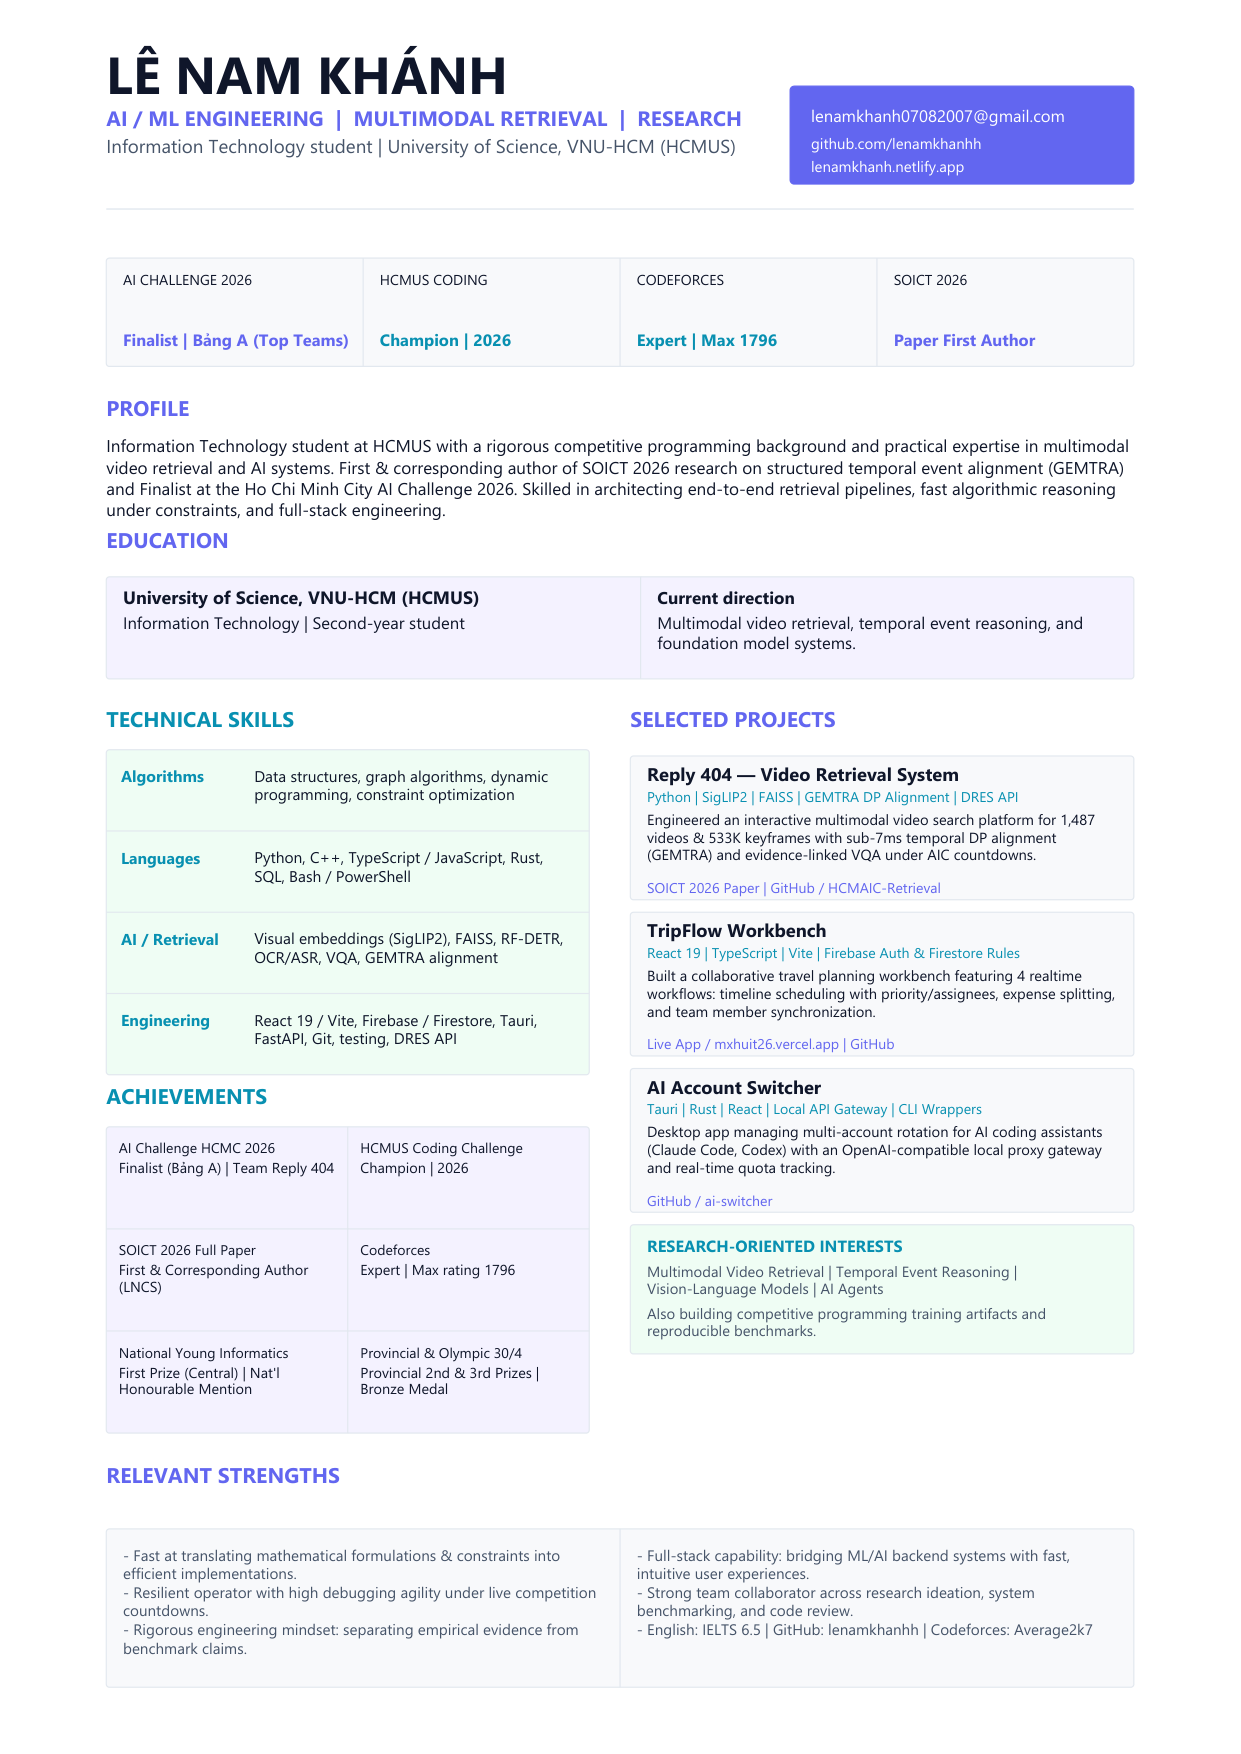
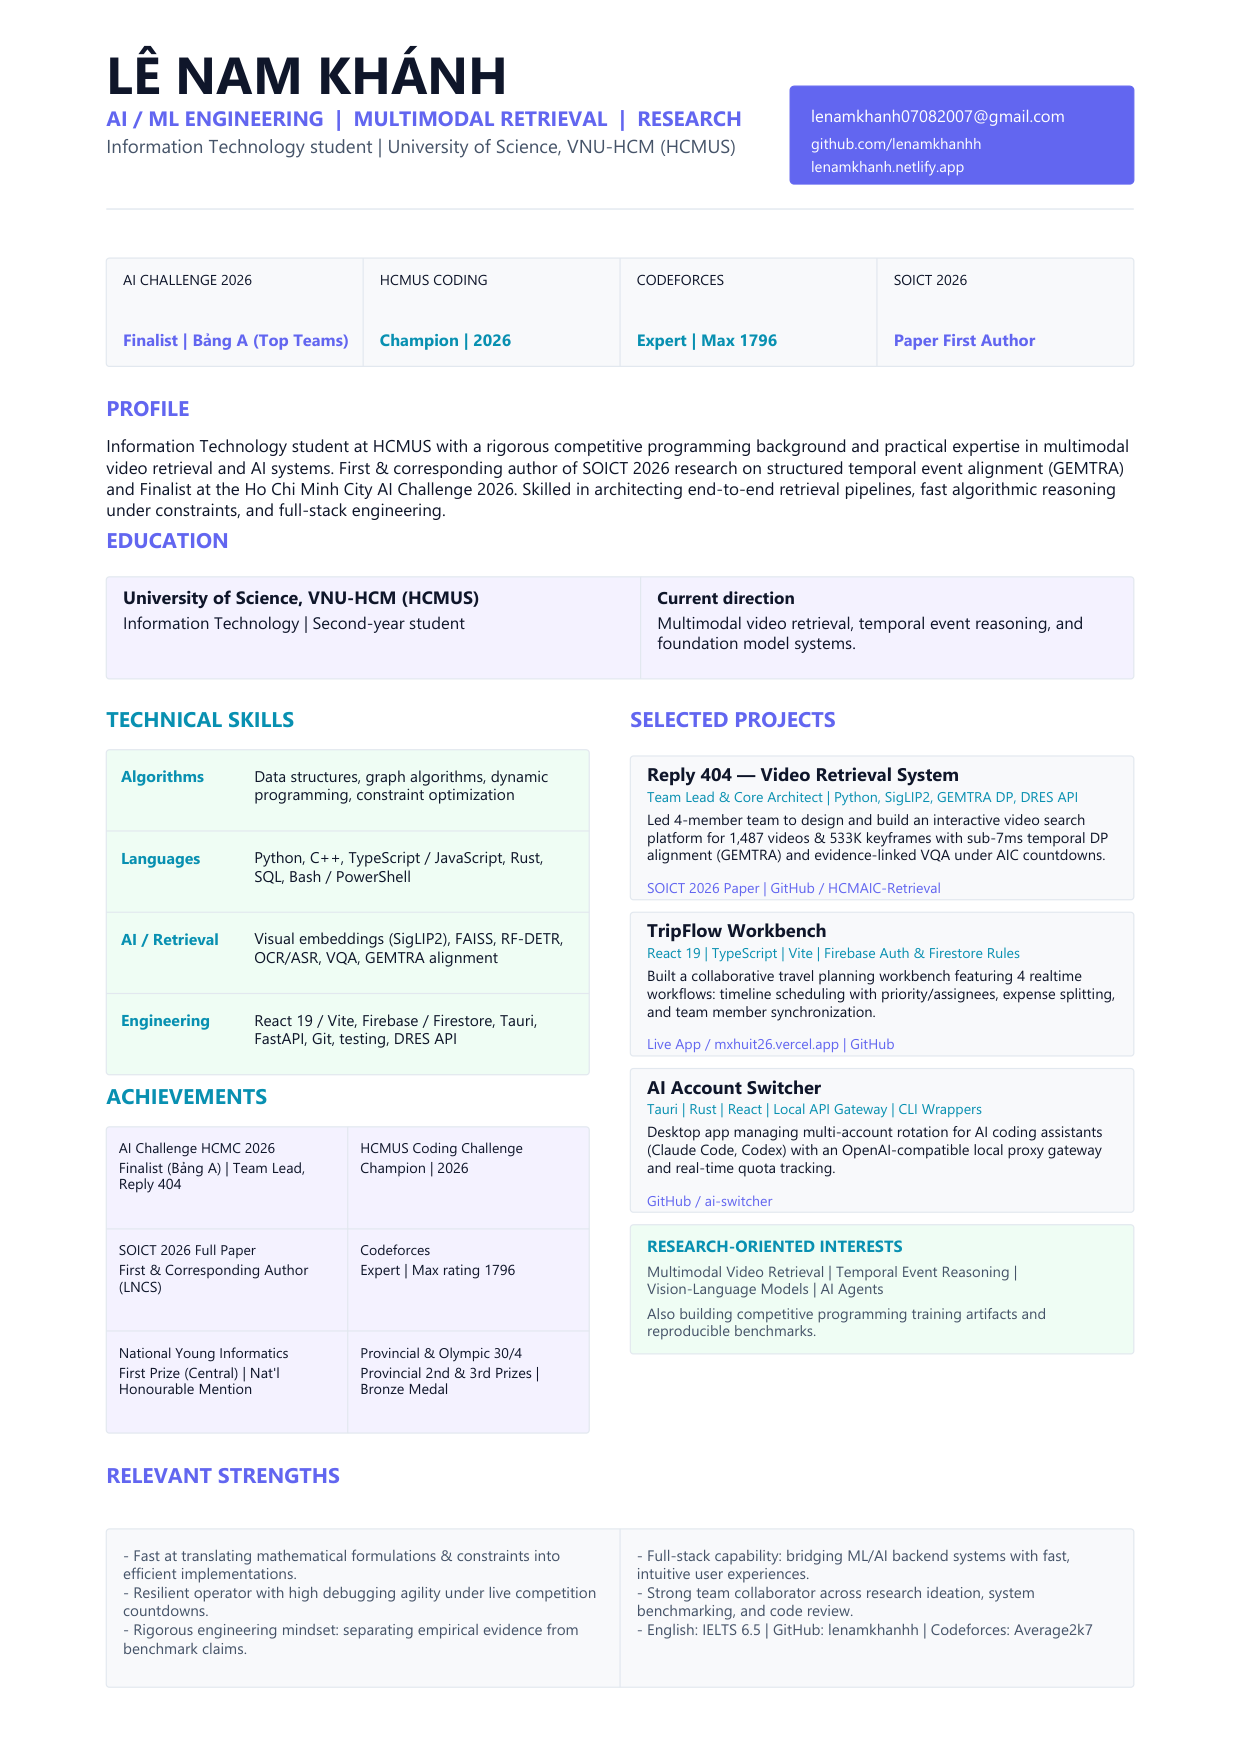
feat: highlight Team Lead and core architect contribution for HCMAIC Reply 404

Changed region(s): [[0.5205, 0.431, 0.888, 0.4926], [0.2143, 0.6465, 0.245, 0.6773]]

diff --git a/src/content.ts b/src/content.ts
@@ -72,7 +72,7 @@ export const headlineEvidence: EvidenceItem[] = [
   {
     label: "AI Challenge 2026",
     value: "Finalist · Bảng A",
-    context: "Reply 404 · SOICT Paper First Author",
+    context: "Team Lead, Reply 404 · SOICT First Author",
     tone: "academic",
     href: "https://github.com/lenamkhanhh/HCMAIC-Retrieval",
   },
@@ -151,7 +151,8 @@ export const preUniversityAchievements: PreUniversityAchievement[] = [
 export const aiChallengeEvidence = {
   result: "Finalist · Bảng A",
   event: "AI Challenge HCMC 2026",
-  team: "Reply 404",
+  role: "Team Lead & Core Architect",
+  team: "Reply 404 (Team Lead)",
   focus: "Multimodal Video Retrieval · GEMTRA DP Alignment",
   paper: "SOICT 2026 Full Paper First Author",
   href: "https://github.com/lenamkhanhh/HCMAIC-Retrieval",
@@ -176,10 +177,10 @@ export const work: WorkItem[] = [
     title: "Reply 404 Video Retrieval",
     status: "Current work",
     type: "Multimodal retrieval system",
-    focus: "SigLIP2 · GEMTRA DP Alignment · DRES API",
+    focus: "Team Lead & Core Architect · SigLIP2 · GEMTRA DP · DRES",
     detail:
-      "An interactive multimodal video search platform indexing 1,487 videos and 533K keyframes with sub-7ms temporal DP alignment (GEMTRA) and evidence-linked VQA for AI Challenge HCMC 2026.",
-    artifact: "1,487 videos · 533K keyframes · GEMTRA DP engine (6.6ms) · Evidence VQA · SOICT 2026 Paper",
+      "Led team Reply 404 to architect and deploy an interactive multimodal video search platform indexing 1,487 videos and 533K keyframes with sub-7ms temporal DP alignment (GEMTRA) and evidence-linked VQA for AI Challenge HCMC 2026.",
+    artifact: "Team Lead · 1,487 videos · 533K keyframes · GEMTRA DP engine (6.6ms) · SOICT 2026 Paper",
     artifactKind: "retrieval",
     href: "https://github.com/lenamkhanhh/HCMAIC-Retrieval",
     action: "Open retrieval repository",

diff --git a/src/components/CompetitionEvidence.tsx b/src/components/CompetitionEvidence.tsx
@@ -128,7 +128,7 @@ export function CompetitionEvidence() {
         <motion.article variants={reduce ? undefined : photoReveal} className="ai-challenge-dossier-card">
           <div className="ai-dossier-col">
             <div className="ai-dossier-kicker-row">
-              <span className="ai-kicker-tag">MAJOR CITY & UNIVERSITY RECORD</span>
+              <span className="ai-kicker-tag">TEAM LEAD · MAJOR CITY & UNIVERSITY RECORD</span>
               <span className="ai-kicker-year">2026</span>
             </div>
 
@@ -136,7 +136,7 @@ export function CompetitionEvidence() {
             <div className="ai-dossier-result-badge">{aiChallengeEvidence.result}</div>
 
             <p className="ai-dossier-team">
-              Team <b>{aiChallengeEvidence.team}</b> · {aiChallengeEvidence.focus}
+              <b>Team Lead & Core Architect</b> · Team <b>Reply 404</b> · {aiChallengeEvidence.focus}
             </p>
 
             <div className="ai-dossier-paper">

diff --git a/src/content.test.ts b/src/content.test.ts
@@ -75,7 +75,8 @@ describe("portfolio evidence contract", () => {
     expect(aiChallengeEvidence).toEqual({
       result: "Finalist · Bảng A",
       event: "AI Challenge HCMC 2026",
-      team: "Reply 404",
+      role: "Team Lead & Core Architect",
+      team: "Reply 404 (Team Lead)",
       focus: "Multimodal Video Retrieval · GEMTRA DP Alignment",
       paper: "SOICT 2026 Full Paper First Author",
       href: "https://github.com/lenamkhanhh/HCMAIC-Retrieval",

diff --git a/scripts/build_cv.py b/scripts/build_cv.py
@@ -289,7 +289,7 @@ def draw_achievements(c: canvas.Canvas, x: float, y_top: float, w: float) -> Non
     col_w = w / 2
     row_h = box_h / 3
     cells = [
-        (("AI Challenge HCMC 2026", "Finalist (Bảng A) | Team Reply 404"), ("HCMUS Coding Challenge", "Champion | 2026")),
+        (("AI Challenge HCMC 2026", "Finalist (Bảng A) | Team Lead, Reply 404"), ("HCMUS Coding Challenge", "Champion | 2026")),
         (("SOICT 2026 Full Paper", "First & Corresponding Author (LNCS)"), ("Codeforces", "Expert | Max rating 1796")),
         (("National Young Informatics", "First Prize (Central) | Nat'l Honourable Mention"), ("Provincial & Olympic 30/4", "Provincial 2nd & 3rd Prizes | Bronze Medal")),
     ]
@@ -340,8 +340,8 @@ def draw_projects(c: canvas.Canvas, x: float, y_top: float, w: float) -> None:
         w,
         card_h,
         "Reply 404 — Video Retrieval System",
-        "Python | SigLIP2 | FAISS | GEMTRA DP Alignment | DRES API",
-        "Engineered an interactive multimodal video search platform for 1,487 videos & 533K keyframes with sub-7ms temporal DP alignment (GEMTRA) and evidence-linked VQA under AIC countdowns.",
+        "Team Lead & Core Architect | Python, SigLIP2, GEMTRA DP, DRES API",
+        "Led 4-member team to design and build an interactive video search platform for 1,487 videos & 533K keyframes with sub-7ms temporal DP alignment (GEMTRA) and evidence-linked VQA under AIC countdowns.",
         "SOICT 2026 Paper | GitHub / HCMAIC-Retrieval",
     )
     project_card(
